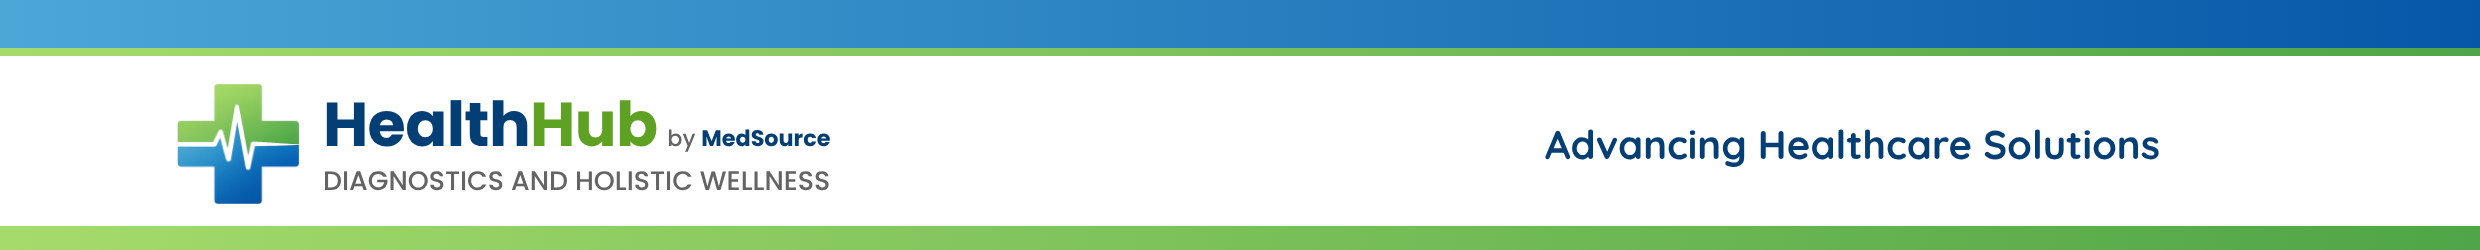
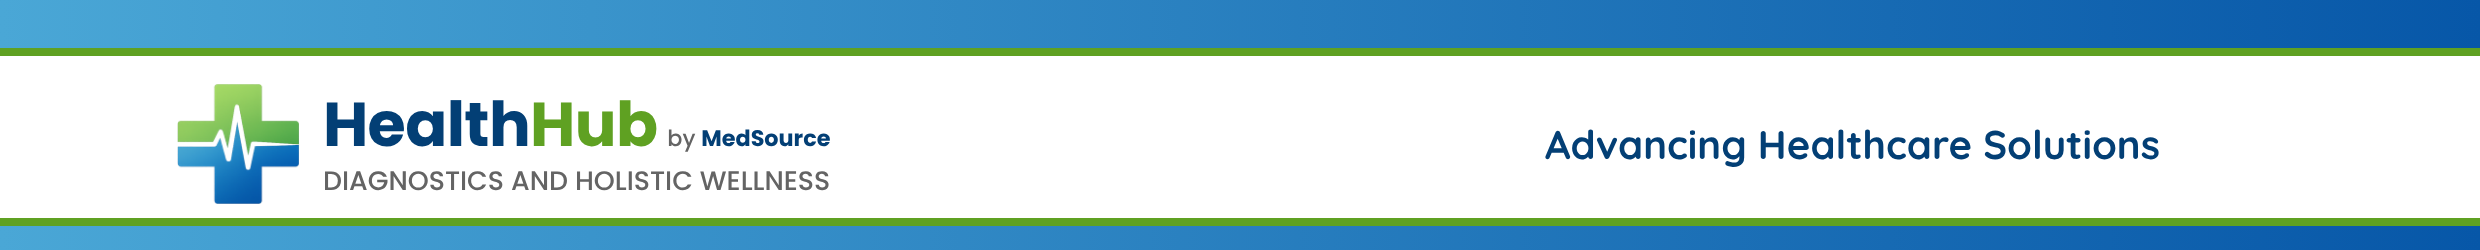
HealthHub letterhead: unify bar colours (blue bars, green accent line)
Claude-Session: https://claude.ai/code/session_016dL7ufMN2VFfGBhqrXKWEq

Changed region(s): [[0.0, 0.868, 1.0, 1.0], [0.0, 0.168, 1.0, 0.224]]

diff --git a/healthhub/print/2026-10-healthhub-letterhead/source.html b/healthhub/print/2026-10-healthhub-letterhead/source.html
@@ -12,7 +12,8 @@ body{background:#888;font-family:"Quicksand",sans-serif;display:flex;flex-direct
 .abs{position:absolute}
 #h1{height:500px}#h2{height:250px}#f{height:250px}
 .topbar{left:0;top:0;width:2480px;background:linear-gradient(90deg,var(--blue-l) 0%,var(--blue-d) 100%)}
-.botbar{left:0;width:2480px;background:linear-gradient(90deg,var(--green-l) 0%,var(--green-d) 100%)}
+.botbar{left:0;width:2480px;background:linear-gradient(90deg,var(--blue-l) 0%,var(--blue-d) 100%)}
+.acc{position:absolute;left:0;width:2480px;background:var(--green)}
 .lock{position:absolute;display:flex;align-items:center;gap:34px}
 .lock img{display:block}
 .txt{display:flex;flex-direction:column;align-items:flex-start;font-family:"Poppins",sans-serif}
@@ -28,7 +29,7 @@ body{background:#888;font-family:"Quicksand",sans-serif;display:flex;flex-direct
 <!-- FIRST PAGE HEADER 2480x500. spec: LETTERHEAD-SPEC.md. Zone A (177-1240, 360-430) and Zone B (1300-2160, 215-430) stay blank. Logo ends above y 350. -->
 <div class="piece" id="h1">
   <div class="abs topbar" style="height:120px"></div>
-  <div class="abs" style="left:0;top:108px;width:2480px;height:12px;background:linear-gradient(90deg,var(--green-l),var(--green-d))"></div>
+  <div class="acc" style="top:108px;height:12px"></div>
   <div class="lock" id="lock1" style="left:177px;top:140px">
     <img src="assets/healthhub-mark.png" style="height:200px" alt="HealthHub mark">
     <div class="txt" id="txt1">
@@ -37,14 +38,14 @@ body{background:#888;font-family:"Quicksand",sans-serif;display:flex;flex-direct
     </div>
   </div>
   <div class="abs tag" style="right:320px;top:130px;height:75px;display:flex;align-items:center;font-size:50px">Advancing Healthcare Solutions</div>
-  <div class="abs botbar" style="top:440px;height:60px;background:linear-gradient(90deg,var(--green-l) 0%,var(--green-d) 100%)"></div>
-  <div class="abs" style="left:0;top:440px;width:2480px;height:10px;background:linear-gradient(90deg,var(--blue-l),var(--blue-d))"></div>
+  <div class="abs botbar" style="top:440px;height:60px"></div>
+  <div class="acc" style="top:440px;height:12px"></div>
 </div>
 
 <!-- LATER PAGES HEADER 2480x250 -->
 <div class="piece" id="h2">
   <div class="abs topbar" style="height:56px"></div>
-  <div class="abs" style="left:0;top:48px;width:2480px;height:8px;background:linear-gradient(90deg,var(--green-l),var(--green-d))"></div>
+  <div class="acc" style="top:48px;height:8px"></div>
   <div class="lock" id="lock2" style="left:177px;top:84px;gap:24px">
     <img src="assets/healthhub-mark.png" style="height:120px" alt="HealthHub mark">
     <div class="txt" id="txt2">
@@ -54,15 +55,18 @@ body{background:#888;font-family:"Quicksand",sans-serif;display:flex;flex-direct
   </div>
   <div class="abs tag" style="right:320px;top:112px;height:64px;display:flex;align-items:center;font-size:40px">Advancing Healthcare Solutions</div>
   <div class="abs botbar" style="top:226px;height:24px"></div>
+  <div class="acc" style="top:218px;height:8px"></div>
 </div>
 
 <!-- FOOTER 2480x250, every page -->
 <div class="piece" id="f">
   <div class="abs topbar" style="top:0;height:24px"></div>
+  <div class="acc" style="top:24px;height:8px"></div>
   <div class="abs" style="left:180px;top:80px;font-family:'Poppins',sans-serif;font-weight:700;font-size:54px;line-height:64px;color:var(--navy)">Health<span style="color:var(--green)">Hub</span> <span style="font-weight:500;font-size:34px;color:var(--grey)">by <b style="font-weight:700;color:var(--navy)">MedSource</b></span></div>
   <div class="abs" style="left:180px;top:152px;font-family:'Poppins',sans-serif;font-weight:500;font-size:30px;line-height:40px;letter-spacing:.04em;color:var(--grey);text-transform:uppercase">Diagnostics and Holistic Wellness</div>
   <div class="abs tag" style="right:320px;top:96px;font-size:42px;line-height:56px">Advancing Healthcare Solutions</div>
   <div class="abs botbar" style="top:226px;height:24px"></div>
+  <div class="acc" style="top:218px;height:8px"></div>
 </div>
 
 <script>

diff --git a/healthhub/print/2026-10-healthhub-letterhead/print.md b/healthhub/print/2026-10-healthhub-letterhead/print.md
@@ -8,7 +8,7 @@
 | Status | Draft |
 | Design | MedHealth look carried over, name changed to HealthHub by MedSource. Source: [source.html](source.html) |
 
-Same look as MedHealth: the cross and heartbeat mark is untouched (cropped from the supplied logo), navy #033F75 and green #5FA122 wordmark, grey descriptor "Diagnostics and Holistic Wellness". Only the name changed: "MedHealth" became "HealthHub" with a smaller "by MedSource". Blue and green gradient bars take their colours from the mark. Tagline "Advancing Healthcare Solutions" top right, Quicksand. Wordmark and descriptor set in Poppins to match the supplied logo.
+Same look as MedHealth: the cross and heartbeat mark is untouched (cropped from the supplied logo), navy #033F75 and green #5FA122 wordmark, grey descriptor "Diagnostics and Holistic Wellness". Only the name changed: "MedHealth" became "HealthHub" with a smaller "by MedSource". Blue gradient bars (from the mark's blue) sit on the outer edges, each with a thin solid green accent line (the wordmark green) next to the white area, so every piece uses one colour scheme. Tagline "Advancing Healthcare Solutions" top right, Quicksand. Wordmark and descriptor set in Poppins to match the supplied logo.
 
 Fitted to [LETTERHEAD-SPEC.md](../../../LETTERHEAD-SPEC.md). First page header keeps Zone A (branch tag) and Zone B (phone, email, address) blank because the system prints them. The logo ends at x 1184, y 340, nothing sits under the logo, and only the optional tagline sits at the top right.
 
